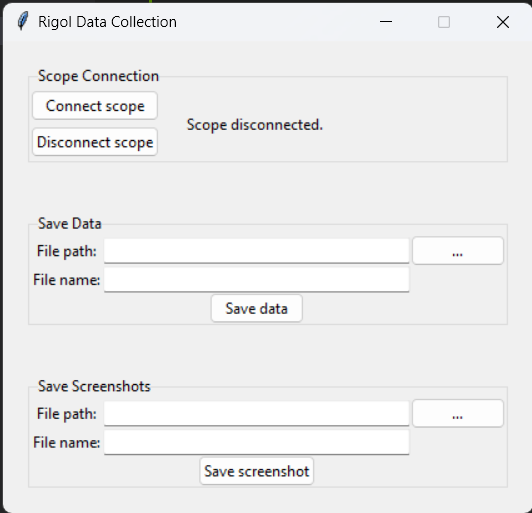
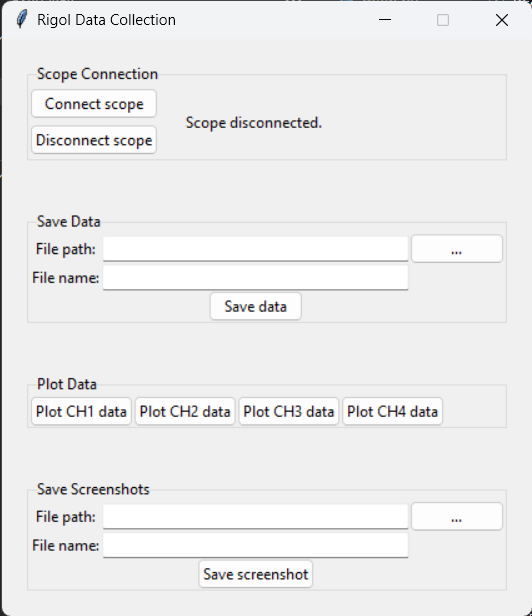
update readme and requirements

diff --git a/README.md b/README.md
@@ -8,7 +8,7 @@ I don't guarantee that this program will work at all for anyone else, but I don'
 
 To use this project, first clone the repository and enter the root directory of the cloned repo.
 
-This project was only tested with Python 3.11. It may work with other versions of Python 3, but YMMV. It uses numpy and PyVISA. If you have [Poetry](https://python-poetry.org/), run `poetry install` to get the required dependencies. If you don't have Poetry, you can run `pip install -r requirements.txt` in the root directory of the repo to install the dependencies.
+This project was only tested with Python 3.11. It may work with other versions of Python 3, but YMMV. It depends on numpy, pandas, matplotlib, and PyVISA. You may need pyvisa-py as well. If you have [Poetry](https://python-poetry.org/), run `poetry install --only main` to get the required dependencies. If you don't have Poetry, you can run `pip install -r requirements.txt` to install the dependencies.
 
 ## using
 
@@ -18,11 +18,11 @@ When opened, you should see something like the window shown below:
 
 ![Screenshot of the project's GUI](ui.png)
 
-Connect the USB cable to the oscilloscope, then click on "Connect scope".
+Connect the USB cable to the oscilloscope, then click on "Connect scope". The scope is disconnected automatically when closing the window.
 
 To save data, add the path to the directory where the data should be saved to the text box labelled "File path". You can press the button next to that text box to select a directory using a GUI.
 
-Input the desired name of the data file in the box labelled "File name". The program will automatically add the .csv extension if you don't. ***If you already have a file with the same name at the selected location, it will be overwritten when saving data.*** To save data to the selected location, click "Save data".
+Input the desired name of the data file in the box labelled "File name". The program will automatically add the .csv extension if you don't. To save data to the selected location, click "Save data". After you've saved data, you can preview it using the plot buttons. These will plot data from the file indicated by the text entries (in the "Save Data" section).
 
 Saving a screenshot of the oscilloscope works almost identically. Screenshots are saved as `.png` files. (The scope and library support other formats, but I left it as the default.)
 
